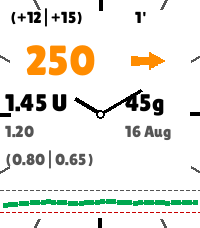
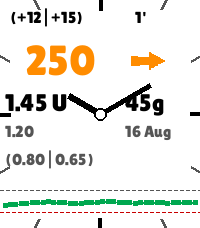
style: finalize watch hands and screenshot assets for public repository launch

Changed region(s): [[0.33, 0.3991, 0.63, 0.5526], [0.66, 0.3684, 0.75, 0.4298]]

diff --git a/src/c/pebble_watchface.c b/src/c/pebble_watchface.c
@@ -199,11 +199,11 @@ static void update_date_display(struct tm *tick_time) {
 // Using GPath to allow rotation around (0,0) before shifting to Center.
 static const GPathInfo HOUR_HAND_INFO = {
   .num_points = 2,
-  .points     = (GPoint []) { {0, 0}, {0, -48} }  // Hand length ~48px (Commit f97e6b4)
+  .points     = (GPoint []) { {0, 0}, {0, -58} }  // 20% longer (was -48px)
 };
 static const GPathInfo MINUTE_HAND_INFO = {
   .num_points = 2,
-  .points     = (GPoint []) { {0, 0}, {0, -85} }  // Hand length ~85px (Commit f97e6b4)
+  .points     = (GPoint []) { {0, 0}, {0, -102} } // 20% longer (was -85px)
 };
 
 static void hands_layer_update_proc(Layer *layer, GContext *ctx) {
@@ -258,18 +258,18 @@ static void hands_layer_update_proc(Layer *layer, GContext *ctx) {
   // Minute hand
   gpath_rotate_to(s_minute_path, min_angle);
   gpath_move_to(s_minute_path, center);
-  graphics_context_set_stroke_width(ctx, 4); // Thicker (was 3)
+  graphics_context_set_stroke_width(ctx, 7); // Additional 30% thicker (was 5)
   gpath_draw_outline(ctx, s_minute_path);
 
   // Hour hand
   gpath_rotate_to(s_hour_path, hour_angle);
   gpath_move_to(s_hour_path, center);
-  graphics_context_set_stroke_width(ctx, 7); // Thicker (was 5)
+  graphics_context_set_stroke_width(ctx, 12); // Additional 30% thicker (was 9)
   gpath_draw_outline(ctx, s_hour_path);
 
   // Center dot
   graphics_context_set_fill_color(ctx, GColorCobaltBlue);
-  graphics_fill_circle(ctx, center, 5); // Larger dot for thicker hands
+  graphics_fill_circle(ctx, center, 7); // Larger hub (was 6)
   graphics_context_set_fill_color(ctx, GColorWhite);
   graphics_fill_circle(ctx, center, 2);
 }

diff --git a/scripts/generate_clean_screenshots.py b/scripts/generate_clean_screenshots.py
@@ -128,22 +128,22 @@ def render_watchface(bg_val, delta_str, age_str, color_rgb, arrow_type, iob_str=
     for gx, gy in graph_coords:
         draw.rectangle([gx-2, gy-2, gx+2, gy+2], fill=COLOR_GREEN)
 
-    # 11. Sweeping Analog Clock Hands (Hands matching commit f97e6b4)
+    # 11. Sweeping Analog Clock Hands (20% longer hands)
     cx, cy = 100, 114
-    # Hour hand (10 o'clock -> 300 deg)
+    # Hour hand (10 o'clock -> 300 deg) — 36px length
     h_angle = math.radians(300)
-    hx = cx + int(30 * math.sin(h_angle))
-    hy = cy - int(30 * math.cos(h_angle))
-    draw.line([(cx, cy), (hx, hy)], fill=COLOR_BLACK, width=4)
+    hx = cx + int(36 * math.sin(h_angle))
+    hy = cy - int(36 * math.cos(h_angle))
+    draw.line([(cx, cy), (hx, hy)], fill=COLOR_BLACK, width=6)
 
-    # Minute hand (2 o'clock -> 60 deg)
+    # Minute hand (2 o'clock -> 60 deg) — 58px length
     m_angle = math.radians(60)
-    mx = cx + int(48 * math.sin(m_angle))
-    my = cy - int(48 * math.cos(m_angle))
-    draw.line([(cx, cy), (mx, my)], fill=COLOR_BLACK, width=3)
+    mx = cx + int(58 * math.sin(m_angle))
+    my = cy - int(58 * math.cos(m_angle))
+    draw.line([(cx, cy), (mx, my)], fill=COLOR_BLACK, width=5)
 
     # Hand center hub
-    draw.ellipse([cx-4, cy-4, cx+4, cy+4], fill=COLOR_WHITE, outline=COLOR_BLACK, width=2)
+    draw.ellipse([cx-6, cy-6, cx+6, cy+6], fill=COLOR_WHITE, outline=COLOR_BLACK, width=2)
 
     return img
 

diff --git a/docs/PEBBLE_DESCRIPTION.md b/docs/PEBBLE_DESCRIPTION.md
@@ -10,20 +10,7 @@ by Soopaloop
 
 PebbleAAPS is a lightweight, high-contrast Pebble watchface that displays real-time status data broadcast from AndroidAPS (AAPS), including glucose readings, trend arrows, active insulin/carbs, and a 3-hour history graph.
 
----
-
-⚠ SAFETY NOTICE & DISCLAIMER
-
-IMPORTANT: PebbleAAPS (and any associated watchface, watchapp, sync plugin, or communication code) is a passive, secondary visual monitoring display only. It does not calculate or deliver insulin, nor does it control your pump, CGM, or looping algorithms.
-
-Scope: This safety notice applies to the AndroidAPS Pebble sync plugin, this PebbleAAPS watchface application, any alternative or derived watchfaces/watchapps, and all code, libraries, or protocols that communicate with or transfer data between AndroidAPS and Pebble devices.
-
-Hardware & Supplies: The safety of AAPS relies on the safety features of your hardware (phone, pump, CGM). Only use a fully functioning FDA/CE-approved insulin pump and CGM. Do not use broken, modified, or self-built insulin pumps or CGM receivers. Only use original consumable supplies (inserters, cannulas, and insulin reservoirs) approved by the manufacturer for use with your pump and CGM. Using untested or modified supplies can cause inaccuracy and insulin dosing errors, resulting in significant risk to the user.
-
-User Responsibility & Assumption of Risk: By installing, building, or using this watchface, the AndroidAPS Pebble sync plugin, or any code that communicates with them, you acknowledge and agree that:
-- You assume full, sole responsibility for your health, medical treatment decisions, and use of this software.
-- Watch displays, companion sync plugins, and Bluetooth communications are subject to disconnections, signal loss, stale data, battery exhaustion, or software/rendering delays. Never make medical or insulin dosing decisions based solely on this watchface, sync plugin, or associated code. Always verify current readings on your primary FDA/CE-approved medical hardware or blood glucose meter.
-- This software is provided "AS IS" under the GNU General Public License v3.0, without warranty of any kind, express or implied. The developers, contributors, and distributors assume no liability or responsibility for any injury, illness, dosing errors, or damages resulting from the use of or reliance upon this software, watchface, plugin, or associated communication code.
+Currently, it requires using the [AndroidAPS fork](https://github.com/ssuppe/AndroidAPS-Pebble) hosted on github. That repo maintains parity with the latest master of [AndroidAPS](https://github.com/nightscout/AndroidAPS), but adds an additional Pebble plugin to communicate with a Pebble watch. 
 
 ---
 
@@ -43,4 +30,19 @@ User Responsibility & Assumption of Risk: By installing, building, or using this
 
 1. Install PebbleAAPS.pbw on your watch via Gadgetbridge or the Pebble app.
 2. In AndroidAPS, open Config Builder > Sync, and check Pebble.
+
+---
+
+⚠ SAFETY NOTICE & DISCLAIMER
+
+IMPORTANT: PebbleAAPS (and any associated watchface, watchapp, sync plugin, or communication code) is a passive, secondary visual monitoring display only. It does not calculate or deliver insulin, nor does it control your pump, CGM, or looping algorithms.
+
+Scope: This safety notice applies to the AndroidAPS Pebble sync plugin, this PebbleAAPS watchface application, any alternative or derived watchfaces/watchapps, and all code, libraries, or protocols that communicate with or transfer data between AndroidAPS and Pebble devices.
+
+Hardware & Supplies: The safety of AAPS relies on the safety features of your hardware (phone, pump, CGM). Only use a fully functioning FDA/CE-approved insulin pump and CGM. Do not use broken, modified, or self-built insulin pumps or CGM receivers. Only use original consumable supplies (inserters, cannulas, and insulin reservoirs) approved by the manufacturer for use with your pump and CGM. Using untested or modified supplies can cause inaccuracy and insulin dosing errors, resulting in significant risk to the user.
+
+User Responsibility & Assumption of Risk: By installing, building, or using this watchface, the AndroidAPS Pebble sync plugin, or any code that communicates with them, you acknowledge and agree that:
+- You assume full, sole responsibility for your health, medical treatment decisions, and use of this software.
+- Watch displays, companion sync plugins, and Bluetooth communications are subject to disconnections, signal loss, stale data, battery exhaustion, or software/rendering delays. Never make medical or insulin dosing decisions based solely on this watchface, sync plugin, or associated code. Always verify current readings on your primary FDA/CE-approved medical hardware or blood glucose meter.
+- This software is provided "AS IS" under the GNU General Public License v3.0, without warranty of any kind, express or implied. The developers, contributors, and distributors assume no liability or responsibility for any injury, illness, dosing errors, or damages resulting from the use of or reliance upon this software, watchface, plugin, or associated communication code.
 ```
